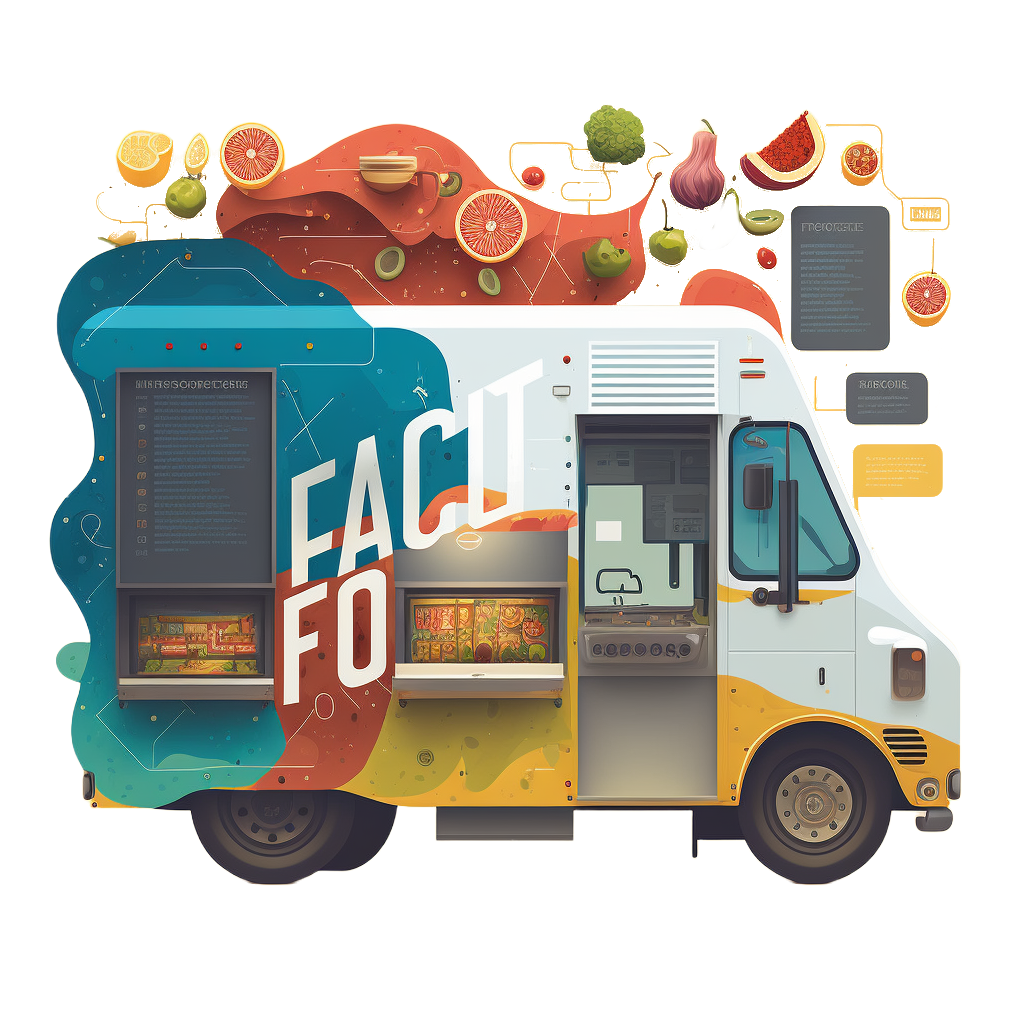
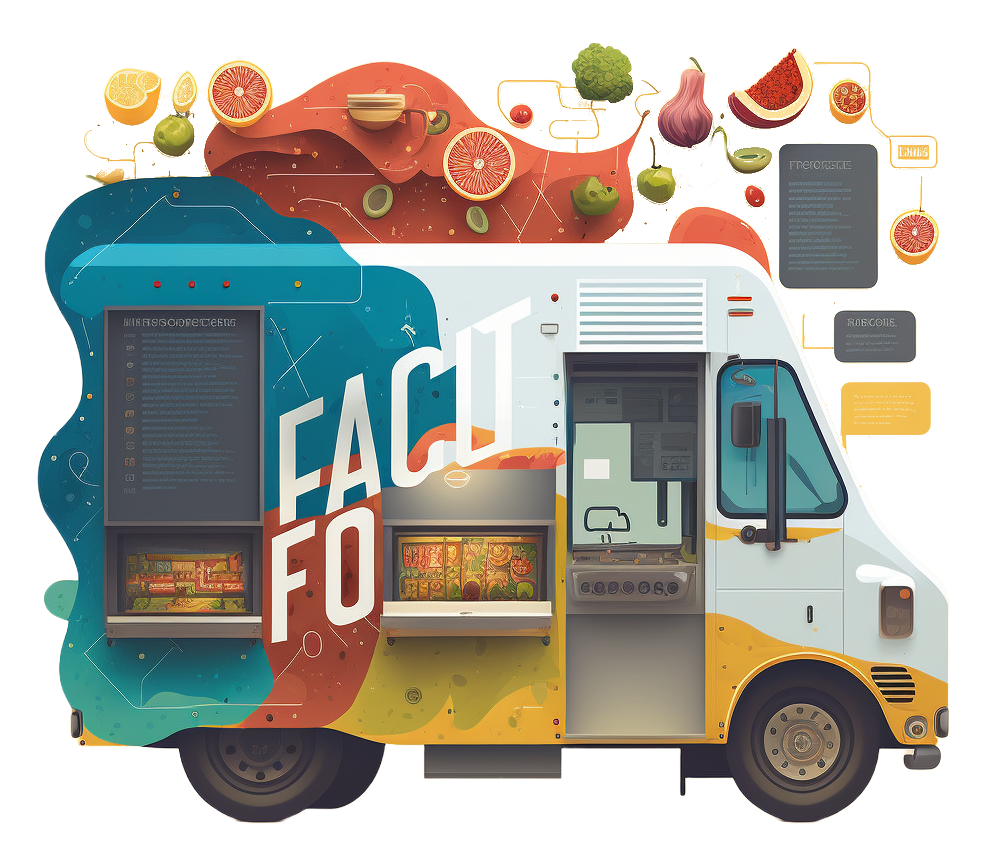
Updates

diff --git a/pages/index.tsx b/pages/index.tsx
@@ -1,5 +1,6 @@
 import Head from 'next/head'
 import Image from 'next/image'
+import GetStarted from '../components/GetStarted'
 import { Inter } from '@next/font/google'
 import Navbar from '../components/navbar'
 import Service from '../components/service'
@@ -23,19 +24,20 @@ export default function Home() {
         <link rel="icon" href="/favicon.ico" />
       
       </Head>
-      <main className="h-[100vh] flex bg-[#CBD5E1]">
-        <div className='xl:my-24 2xl:mx-[22rem] xl:mx-[12rem] lg:mx-[10rem] md:my-20 sm:mt-10 sm:mx-[2rem] flex flex-col w-full'>
-          <div className='flex h-full justify-center pointer-events-none '>
-            <div className='flex flex-col gap-3 md:flex-col lg:my-auto justify-center'>
-              {/* <div className='text-center mt-20 text-black text-8xl font-bold whitespace-nowrap'>ORDER UP!</div> */}
-              <div className='text-5xl mx-4 mb-10 font-bold text-center text-black'>Digital Solutions for Your Food Truck</div>
-              <Link className='mx-auto' href={'/pricing'}><button className='py-2 px-4 bg-orange-500 rounded-full text-white font-semibold'>Get Started</button></Link>
+      <main className="h-[90vh] flex bg-offwhite text-black justify-between">
+        <div className='xl:my-24 2xl:mx-[15rem] xl:mx-[12rem] lg:mx-[10rem] md:my-20 sm:mt-10 sm:mx-[2rem] flex flex-col w-full'>
+          <div className='flex h-full justify-between pointer-events-none '>
+            <div className='flex flex-col gap-3 md:flex-col lg:my-auto justify-center max-w-md'>
+              <div className='text-5xl mb-5 font-bold text-left'>Tech designed with food trucks in mind.</div>
+              <p className='text-xl mb-2 font-bold text-left'>Whether it&apos;s mobile ordering, website design and development, or a completely custom solution. 
+              OrderUp provides food trucks with the tools to provide a superior customer experience.</p>
+            <GetStarted />
             </div>
             
-            <div className="md:my-auto w-full mx-auto relative h-[50vh]">
+            <div className="md:my-auto w-full mx-auto relative h-[60vh]">
                 <Image
                 className="ml-auto"
-                src="/foodtruck-graphic.png"
+                src="/foodtruck-3.png"
                 alt="Cute Robot"
                 fill
                 style={{objectFit:"contain"}}
@@ -45,9 +47,9 @@ export default function Home() {
             </div>
         </div>
       </main>
-      <section className='min-h-[400px] sm:min-h-[70vh] pb-10 h-fit flex flex-col bg-[#5C4934]'  id="services">
+      <section className='min-h-[400px] h-fit flex flex-col bg-[#5C4934]'  id="services">
        
-        <div className='h-fit mx-auto mt-40 md:mx-20 lg:mx-44 flex flex-col flex-wrap xl:flex-nowrap md:flex-row lg:gap-4 justify-center text-white'> 
+        <div className='h-fit mx-auto mt-0 md:mx-20 lg:mx-44 flex flex-col flex-wrap xl:flex-nowrap md:flex-row lg:gap-4 justify-center text-white'> 
         {/* <div className='w-80 flex flex-col mt-16 text-center rounded-md mx-auto lg:mx-0'>
           <h1 className="font-bold text-3xl underline">Services</h1>
           <p className='text-lg'>We offer a full range of services to take your website or app from an idea to fruition. Wether you need one or all of the services we provide, if it&apos;s on the web, we&apos;ve got you covered. 
@@ -61,12 +63,8 @@ export default function Home() {
               online ordering, and the latest technological features available, 
               we allow you to focus on what really matters, your customers.
             </p>
-            <Link className='w-full sm:w-fit mr-auto py-3 sm:py-2 px-4 rounded-full bg-amber-500 my-3 font-semibold text-center' href={'/pricing'}>
-             Get Started
-           </Link>
+            <GetStarted />
           </div>
-          {/* <Service name={"Design"} /> */}
-          {/* <Service name={"Develop"} /> */}
         <div className='md:basis-[100%] xl:hidden'></div>
           <Image src={"/3DTruck.png"} width={500} height={500} alt="Food Truck Graphic" className='hidden sm:inline'/>
         </div>
@@ -91,9 +89,7 @@ export default function Home() {
             Increase visibility and reach a larger audience by taking advantage of the latest search engine optimizations. 
             Integrate your website with social media and location tracking to connect with customers in real-time and drive sales. 
             </p>
-            <Link className='w-full sm:w-fit mr-auto py-3 sm:py-2 px-4 rounded-full bg-amber-500 my-3 font-semibold text-center' href={'/pricing'}>
-             Get Started
-           </Link>
+          <GetStarted /> 
           </div>
         </div>
       </section>
@@ -113,9 +109,7 @@ export default function Home() {
            We handle the ordering so you can focus on the customer. &quot;Order Up!&quot;
           
            </p>
-           <Link className='w-full sm:w-fit mr-auto py-3 sm:py-2 px-4 rounded-full bg-amber-500 my-3 font-semibold text-center' href={'/pricing'}>
-             Get Started
-           </Link>
+          <GetStarted /> 
          </div>
          {/* <Service name={"Design"} /> */}
          {/* <Service name={"Develop"} /> */}

diff --git a/components/navbar.tsx b/components/navbar.tsx
@@ -31,7 +31,7 @@ function Navbar({hamburger, home, dark, shoppingCart, getStarted}:propTypes) {
   }
   return(<>
     {!hamburger &&
-      <div className='absolute top-0 w-[100vw] px-56 py-5 m font-bold text-lg text-white bg-offwhite flex justify-between z-[50000] pointer-events-auto'>
+      <div className='absolute top-0 w-[100vw] px-56 py-5 m font-bold text-lg text-white bg-white flex justify-between z-[50000] pointer-events-auto'>
         <Link className='hover:cursor-pointer my-auto flex' href={"/"}>
           <Image src={`${dark ? '/hamburger-black.png' : '/hamburger-white.png'}`} width={50} height={50} alt="logo" />
         </Link>
@@ -40,7 +40,7 @@ function Navbar({hamburger, home, dark, shoppingCart, getStarted}:propTypes) {
           <Link href={"/contact"} className={`${dark && 'text-black'} my-auto cursor-pointer scroll-smooth`}>Contact</Link>
           { getStarted &&
             <Link href={"/pricing"} >
-            <button className="bg-[#EB9B2F] text-white rounded-full font-bold py-2 px-4 cursor-pointer pointer-events-none">Get Started</button>
+            <button className="bg-orange-500 text-white rounded-full font-bold py-2 px-4 cursor-pointer pointer-events-none">Get Started</button>
           </Link>
           }
             { shoppingCart &&

diff --git a/pages/contact.tsx b/pages/contact.tsx
@@ -43,14 +43,8 @@ function Contact() {
   }
   return (
     <>
-    <div className='md:hidden'>
-          <Navbar hamburger={true} dark/>
-    </div>
     <section className='min-h-[100vh] bg-[#E8E8E8]  flex justify-center'>
       <div className="flex flex-col mt-[70px] md:my-auto md:w-[750px] lg:w-[1000px] xl:w-[1200px] gap-2">
-      <div className='hidden md:inline'>
-          <Navbar hamburger={false} dark shoppingCart/>
-      </div>
         <div className=' bg-[#323732] w-full h-fit my-auto'>
           <form id="#form" className='flex flex-col m-12 gap-4 text-black' onSubmit={handleSubmit}>
             {loading &&

diff --git a/components/Container.tsx b/components/Container.tsx
@@ -10,14 +10,8 @@ type Props = {
 function Container({children, dark, getStarted}:Props) {
   return (
     <>
-      <div className='md:hidden'>
-        <Navbar hamburger={true} dark/>
-      </div>
     <div className='bg-gray-200 min-h-screen flex'>
        <div className='flex flex-col mt-[70px] mx-auto md:mt-44 md:w-[750px] lg:w-[1000px] xl:w-[1200px] gap-2"'>
-        <div className='hidden md:inline'>
-          <Navbar hamburger={false} dark={dark} getStarted={getStarted} />
-        </div>
         {children}
       </div>
     </div>

diff --git a/components/GetStarted.tsx b/components/GetStarted.tsx
@@ -1,0 +1,10 @@
+import React from 'react'
+import Link from 'next/link'
+
+function GetStarted() {
+  return (
+    <Link className='mr-auto' href={'/pricing'}><button className='py-2 px-4 mt-2 bg-orange-500 w-44 rounded-full text-white font-semibold'>Get Started</button></Link>
+  )
+}
+
+export default GetStarted
